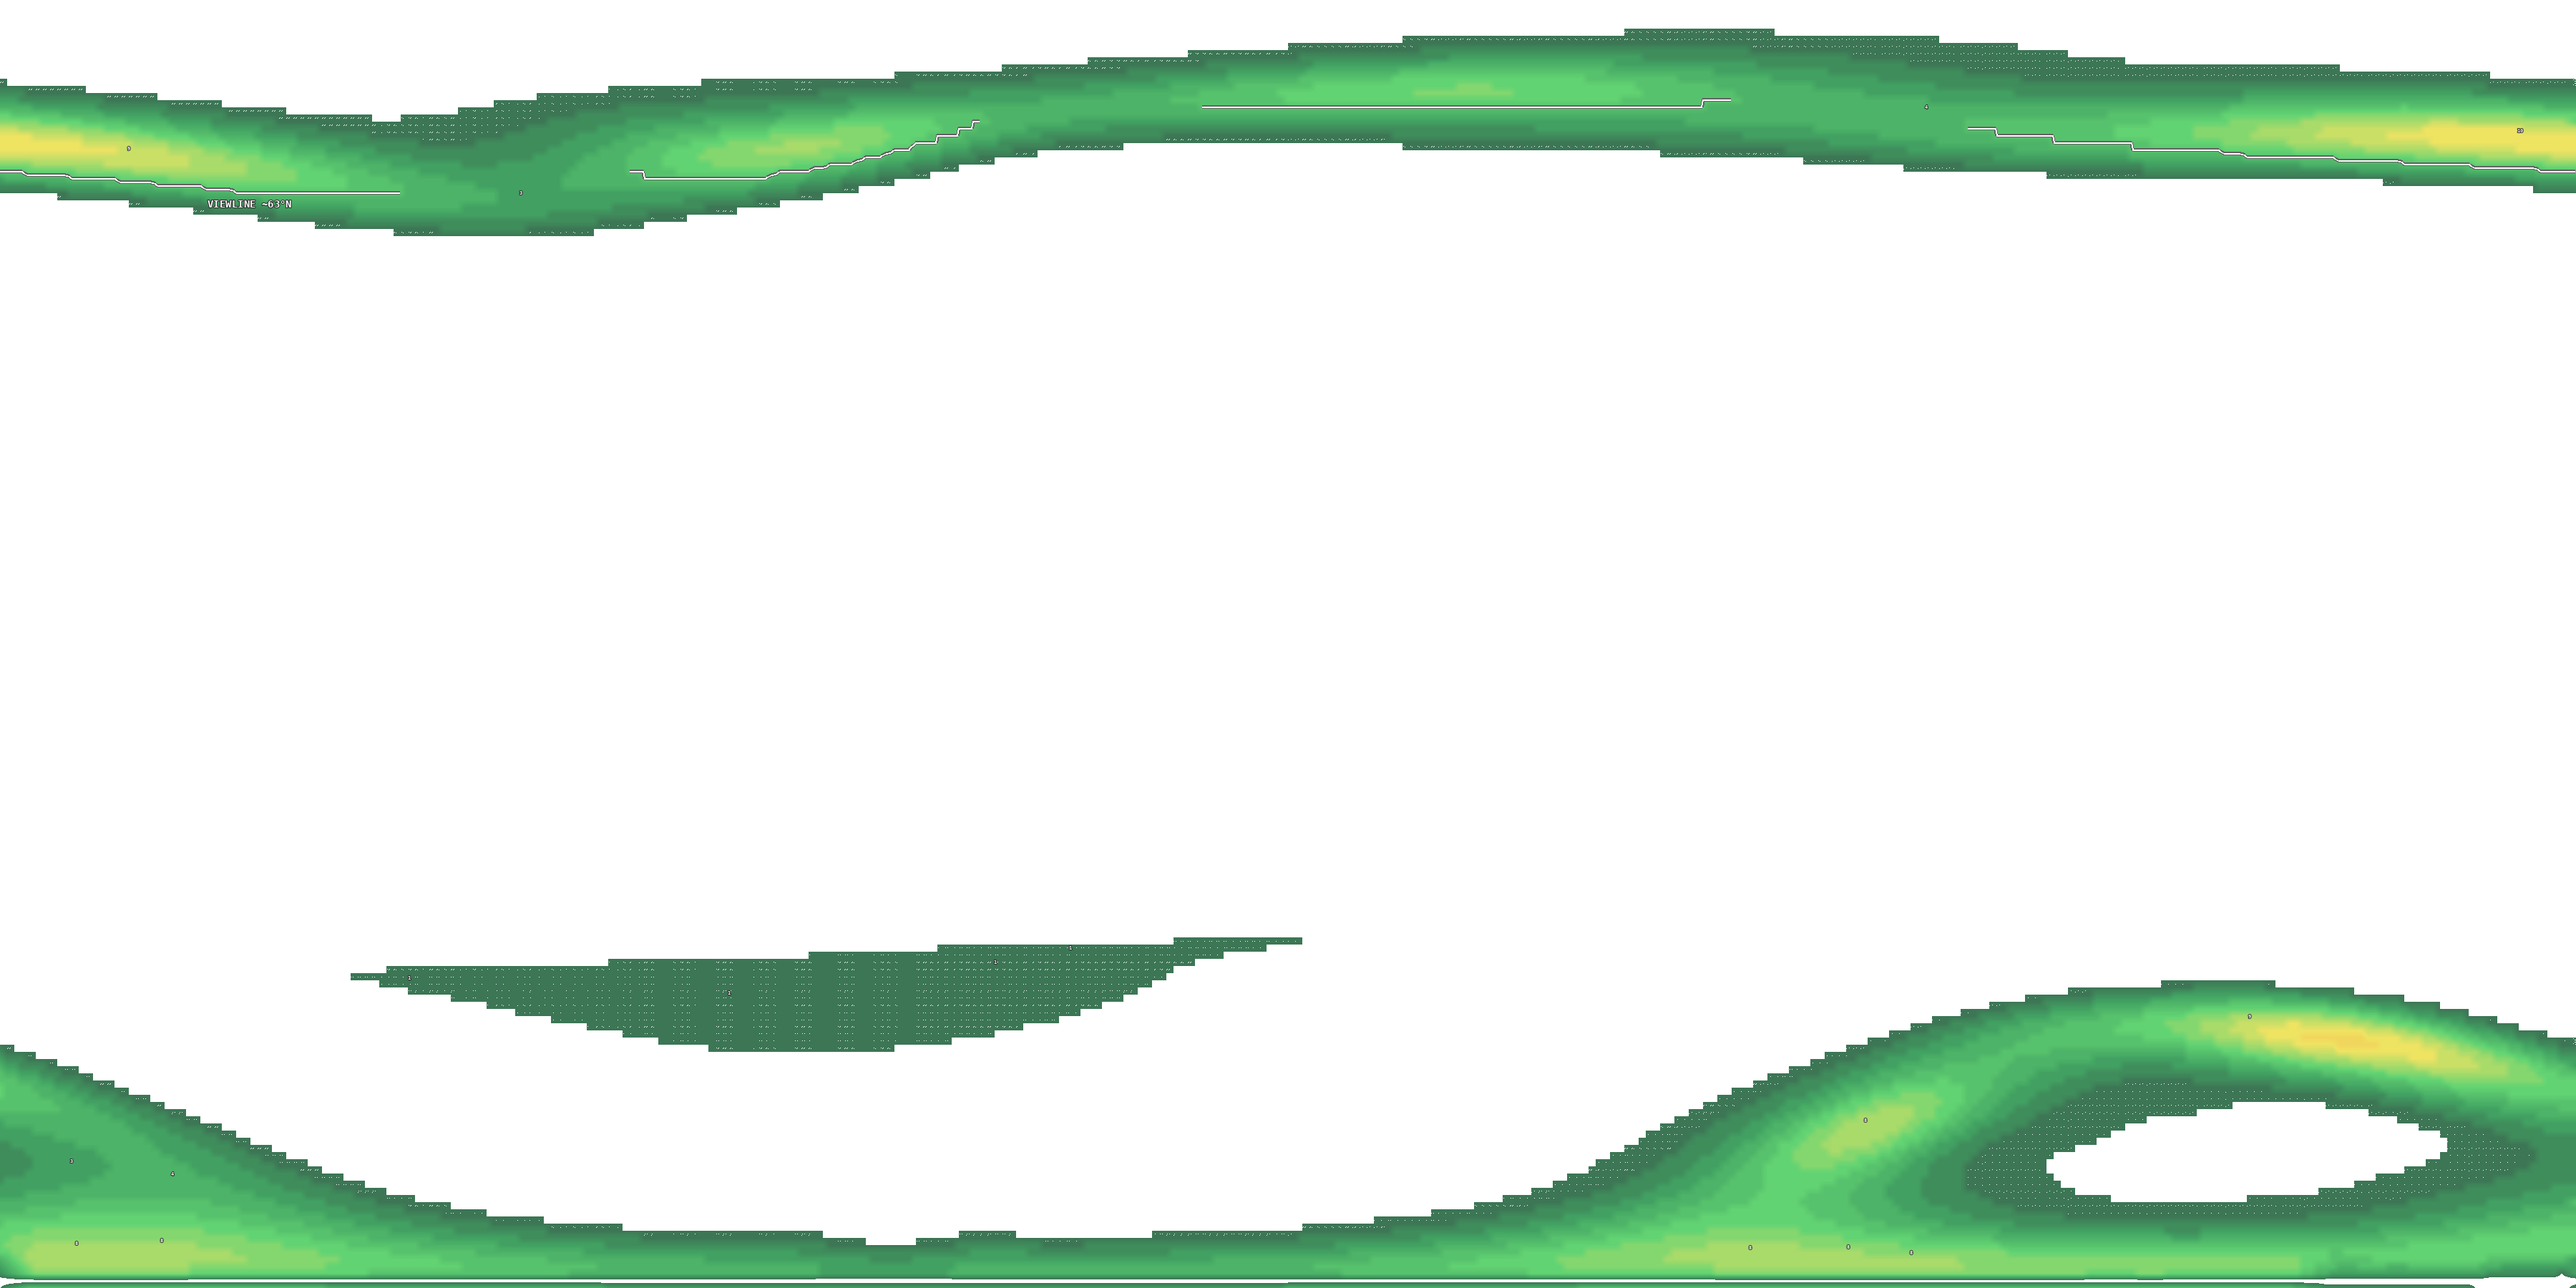
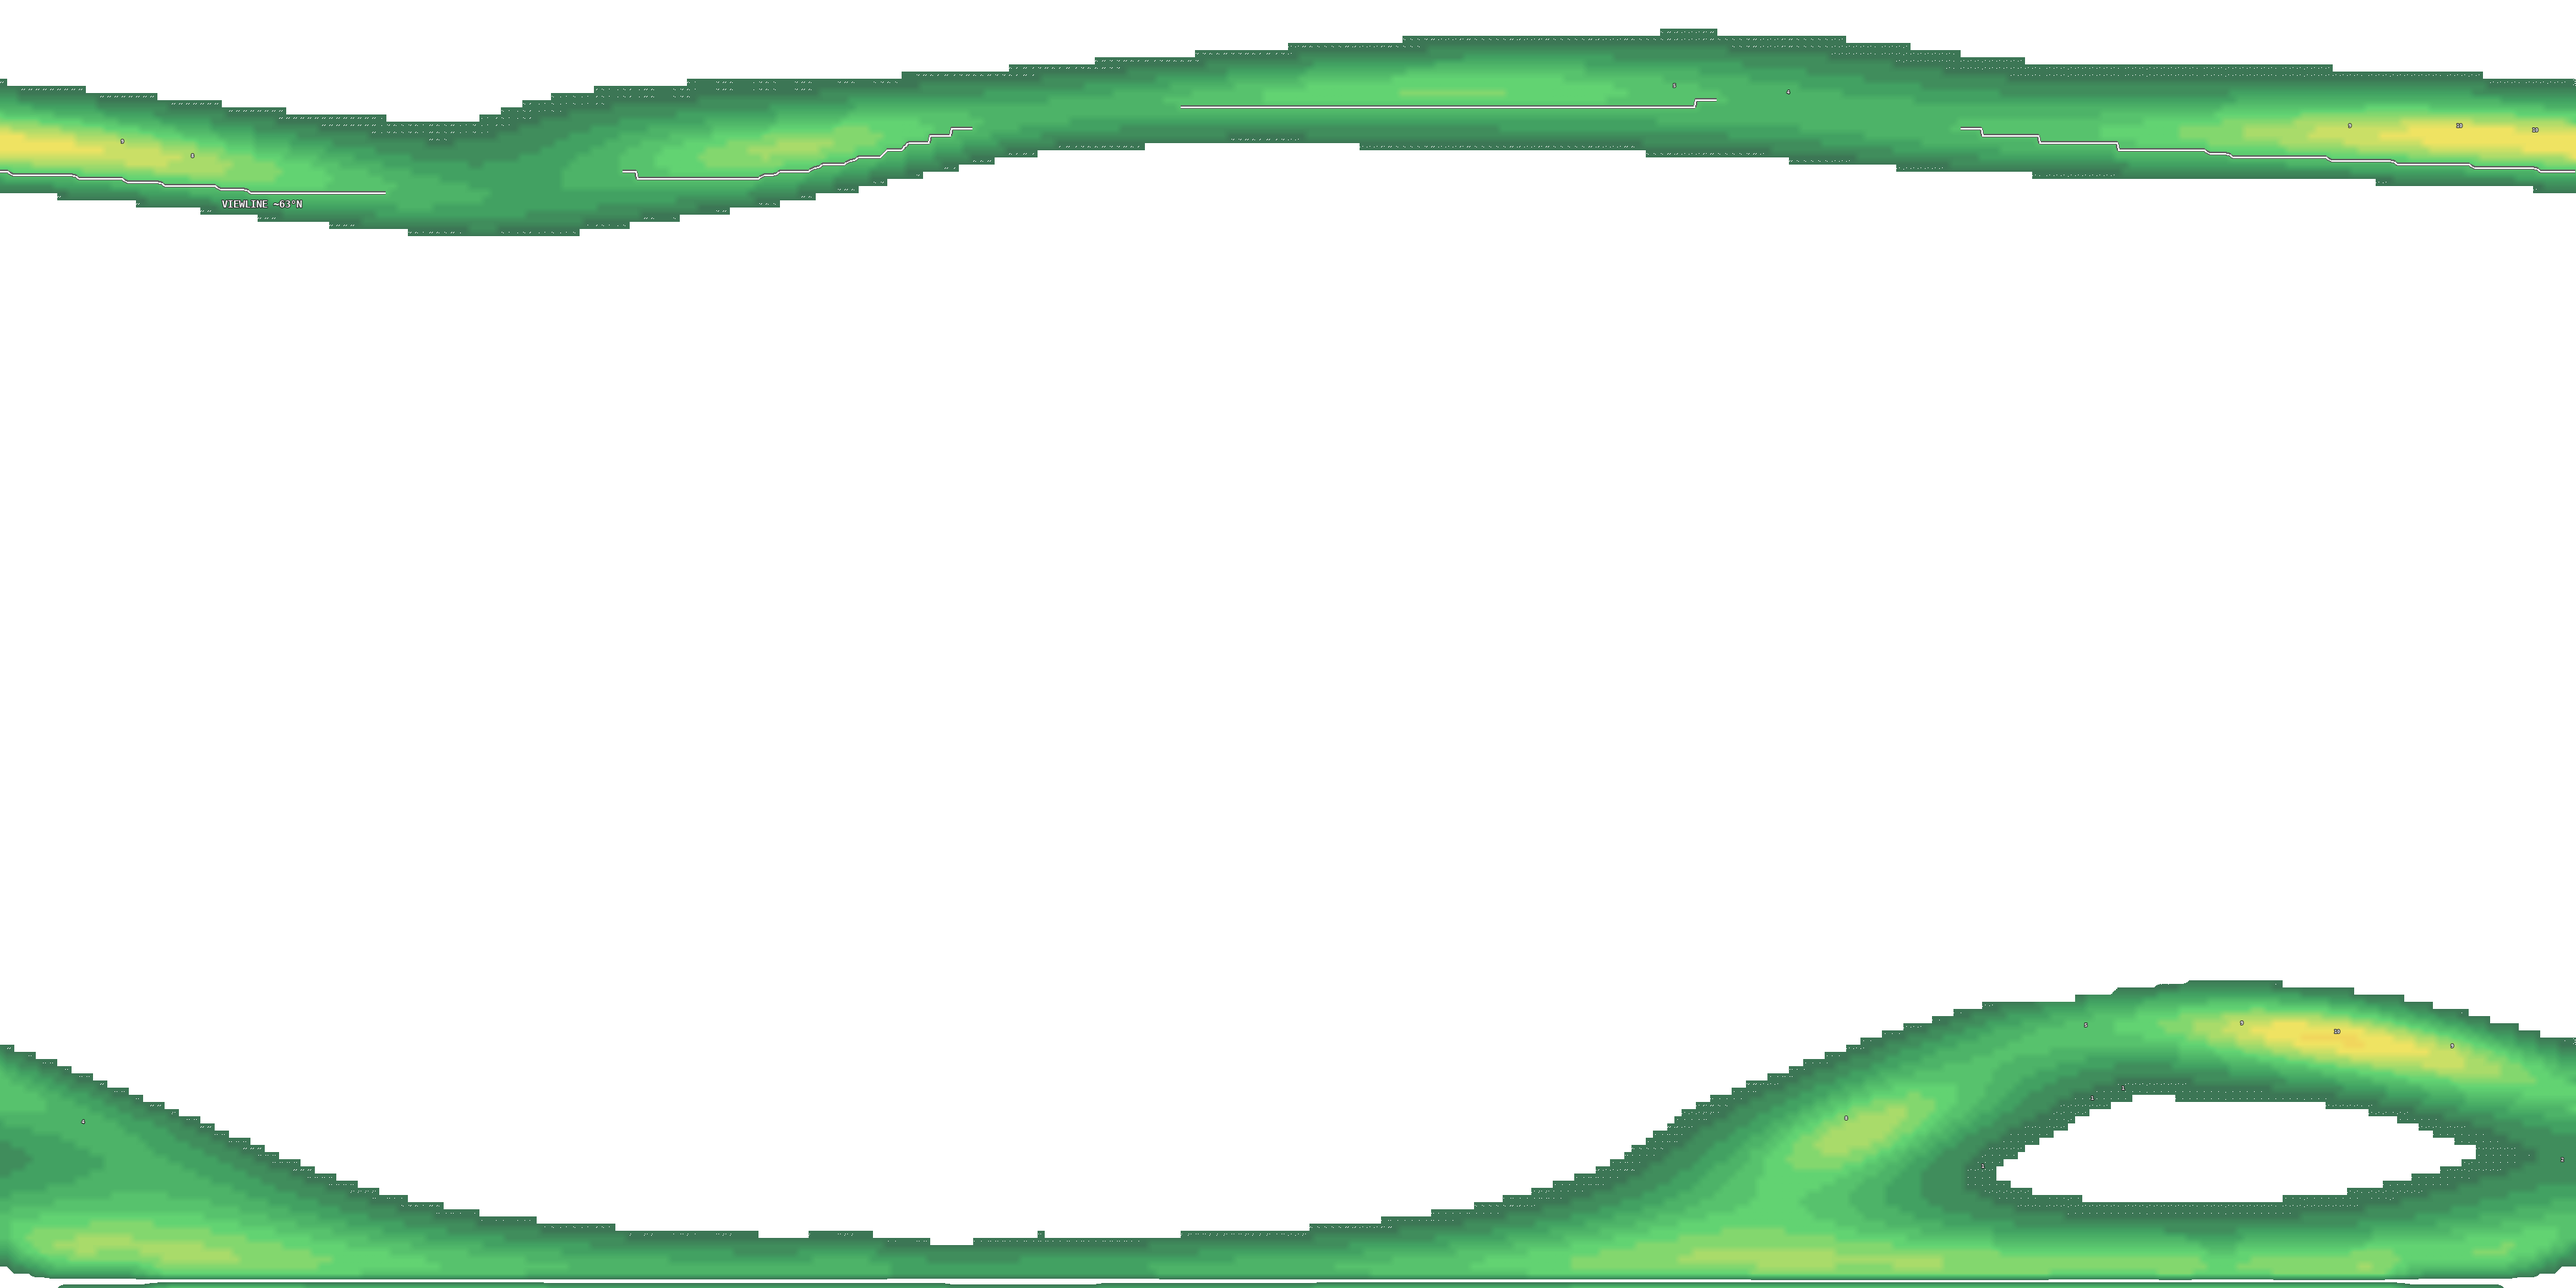
Aurora global: source-level floor-fill mask kills France/SAtlantic false data at origin

diff --git a/scripts/build_aurora_global.py b/scripts/build_aurora_global.py
@@ -205,15 +205,53 @@ def _build(obs, fcst, lons, lats, vals, hemi, kpf, kp_now, source_id,
           f"max={vals[ok].max() if ok.any() else float('nan'):.1f}")
     if ok.sum() < 1000:
         raise ValueError("too few valid cells")
-    field = resample_global(lons[ok], lats[ok], vals[ok])
-    # Tropical model-background mask (documented, not data removal of real
-    # signal): OVATION is a high-latitude precipitation model; the faint
-    # 1-4 equatorial/Americas-sector drizzle is background noise, so cells
-    # below |40° paint only at/above the viewline threshold (storm signal
-    # always survives; the viewline is read off the painted edge itself).
-    ys = 90.0 - (np.arange(GH) + 0.5) / GH * 180.0
-    trop = (np.abs(ys) < 40.0)[:, None] & (field < 5.0)
-    paint = np.where((field >= 1.0) & ~trop, field, np.nan)
+    # Source-level floor mask (verified signature, not assumed): obs cells
+    # at exactly the model floor (< 2.0) with no real activity (>= 2.0)
+    # within 3 deg are fill, not precipitation — static across frames,
+    # exactly uniform amid zeros (France/SAtlantic sectors verified).
+    # Real faint oval cells always neighbor genuine activity. Masked cells
+    # are dropped before resampling so no smear of them can paint.
+    _jj = np.clip(np.floor(lons + 180.0).astype(int), 0, 359)
+    _ii2 = np.clip(np.floor(lats + 90.0).astype(int), 0, 179)
+    _gmax = np.full(180 * 360, -1.0)
+    _vv = np.where(ok, vals, -1.0)
+    np.maximum.at(_gmax, _ii2 * 360 + _jj, _vv)
+    _gmax = _gmax.reshape(180, 360)
+    _dil = _gmax.copy()
+    for _di in (-3, -2, -1, 1, 2, 3):
+        for _dj in (-3, -2, -1, 1, 2, 3):
+            _dil = np.maximum(_dil, np.roll(np.roll(_gmax, _di, axis=0),
+                                            _dj, axis=1))
+    _cellmax = _dil[_ii2, _jj]
+    _bg = ok & (vals < 2.0) & (_cellmax < 2.0)
+    print(f"[{PRODUCT}] floor-fill masked obs cells: {int(_bg.sum())}")
+    use = ok & ~_bg
+    field = resample_global(lons[use], lats[use], vals[use])
+    # Background-noise rule (documented; applies equally at ALL latitudes,
+    # so it is not a geographic bias): OVATION carries a persistent,
+    # static, exactly-uniform faint floor (verified: hundreds of cells at
+    # exactly 1.0 amid zeros, unmoving across frames, far below the
+    # product's own viewing-relevance threshold). When genuine activity
+    # exists, faint green paints only attached to it (oval edges stay,
+    # isolated floor cells never paint).
+    core = np.isfinite(field) & (field >= 5.0)
+    # Background rule (documented; verified against source, not assumed):
+    # the persistent static exact-1.0 floor appears far from any activity,
+    # while real faint oval sections sit poleward or adjacent to bright
+    # cores. So: poleward of |50° everything >= floor paints (never erase
+    # the oval); equatorward, faint paints only attached (within 3°,
+    # covering bilinear smear plus genuine gradient fringe) to genuinely
+    # active cells, so storm expansions survive and flat floor plateaus
+    # never paint. Quiet regimes keep their poleward faint oval.
+    _R, _S = 30, 61
+    _pad = np.pad(core.astype(float), _R, mode="constant")
+    _ii = np.zeros((np.asarray(_pad.shape) + 1), dtype=float)
+    _ii[1:, 1:] = np.cumsum(np.cumsum(_pad, axis=0), axis=1)
+    _support = (_ii[_S:_S + GH, _S:_S + GW] - _ii[0:GH, _S:_S + GW]
+                - _ii[_S:_S + GH, 0:GW] + _ii[0:GH, 0:GW]) > 0
+    _ys = 90.0 - (np.arange(GH) + 0.5) / GH * 180.0
+    _high = (np.abs(_ys) >= 50.0)[:, None]
+    paint = np.where((field >= 1.0) & (_high | _support), field, np.nan)
     rgba = render_rgba(paint, AURORA_STOPS, 205)
     rgba, n_labels = paint_aurora_labels(rgba, paint, font_size=font_size)
     # Viewline = the painted threshold edge itself (no smoothing, margins,
@@ -256,8 +294,9 @@ def _build(obs, fcst, lons, lats, vals, hemi, kpf, kp_now, source_id,
          f"NOAA's own view line) "
          f"(<b>{vl_txt}</b>) — aurora may be visible low on the northern "
          f"horizon from there under dark, clear skies. The line spans "
-         f"only longitudes where the oval actually reaches near it. Faint "
-         f"equatorial speckles are a known OVATION grid artifact, not "
+         f"only longitudes where the oval actually reaches near it. "
+         f"Isolated faint cells paint only where connected to genuinely "
+         f"active areas, so model background noise never renders as "
          f"aurora.")
     meta = base_metadata(
         PRODUCT, CONFIG["title"], CONFIG["freshness_label"],
@@ -267,14 +306,15 @@ def _build(obs, fcst, lons, lats, vals, hemi, kpf, kp_now, source_id,
         units="OVATION intensity 0-30+ (display = source)",
         source_resolution="1-degree global OVATION grid, bilinear to 0.1 deg canvas",
         color_min=0.0, color_max=30.0, color_units="OVATION intensity",
-        missing_data_treatment=("intensity < 1.0 transparent; tropical "
-                                "model-background cells (|lat| < 40° and "
-                                "intensity < 5) masked as non-auroral noise — "
-                                "storm-level signal always paints, and the "
-                                "viewline is computed on unmasked source; "
-                                "full world equirectangular canvas lon "
-                                "-180..180 / lat -90..90 (3600x1800); missing "
-                                "source transparent, never zero-filled."))
+        missing_data_treatment=("intensity < 1.0 transparent; faint cells "
+                                "paint only poleward of |50° or attached "
+                                "(within 10°) to genuinely active areas, so "
+                                "isolated model background never renders as "
+                                "aurora while storm expansions and faint oval "
+                                "sections survive; full world equirectangular "
+                                "canvas lon -180..180 / lat -90..90 "
+                                "(3600x1800); missing source transparent, "
+                                "never zero-filled."))
     meta["render_bounds"] = {"lon_min": -180.0, "lon_max": 180.0,
                              "lat_min": -90.0, "lat_max": 90.0}
     meta["spatial_resolution_rendered"] = (
@@ -284,7 +324,7 @@ def _build(obs, fcst, lons, lats, vals, hemi, kpf, kp_now, source_id,
     meta["legend_scale_html"] = scale_html
     meta["source_id"] = source_id
     meta["source_version"] = source_token(
-        f"{source_id}-r{RENDER_VERSION}-aurglobal-tx4")
+        f"{source_id}-r{RENDER_VERSION}-aurglobal-tx5")
     meta["viewline_threshold"] = CONFIG["viewline_threshold"]
     meta["viewline_farthest_lat"] = vl
     meta["stats"] = {"valid_cells": int(np.isfinite(paint).sum()),
